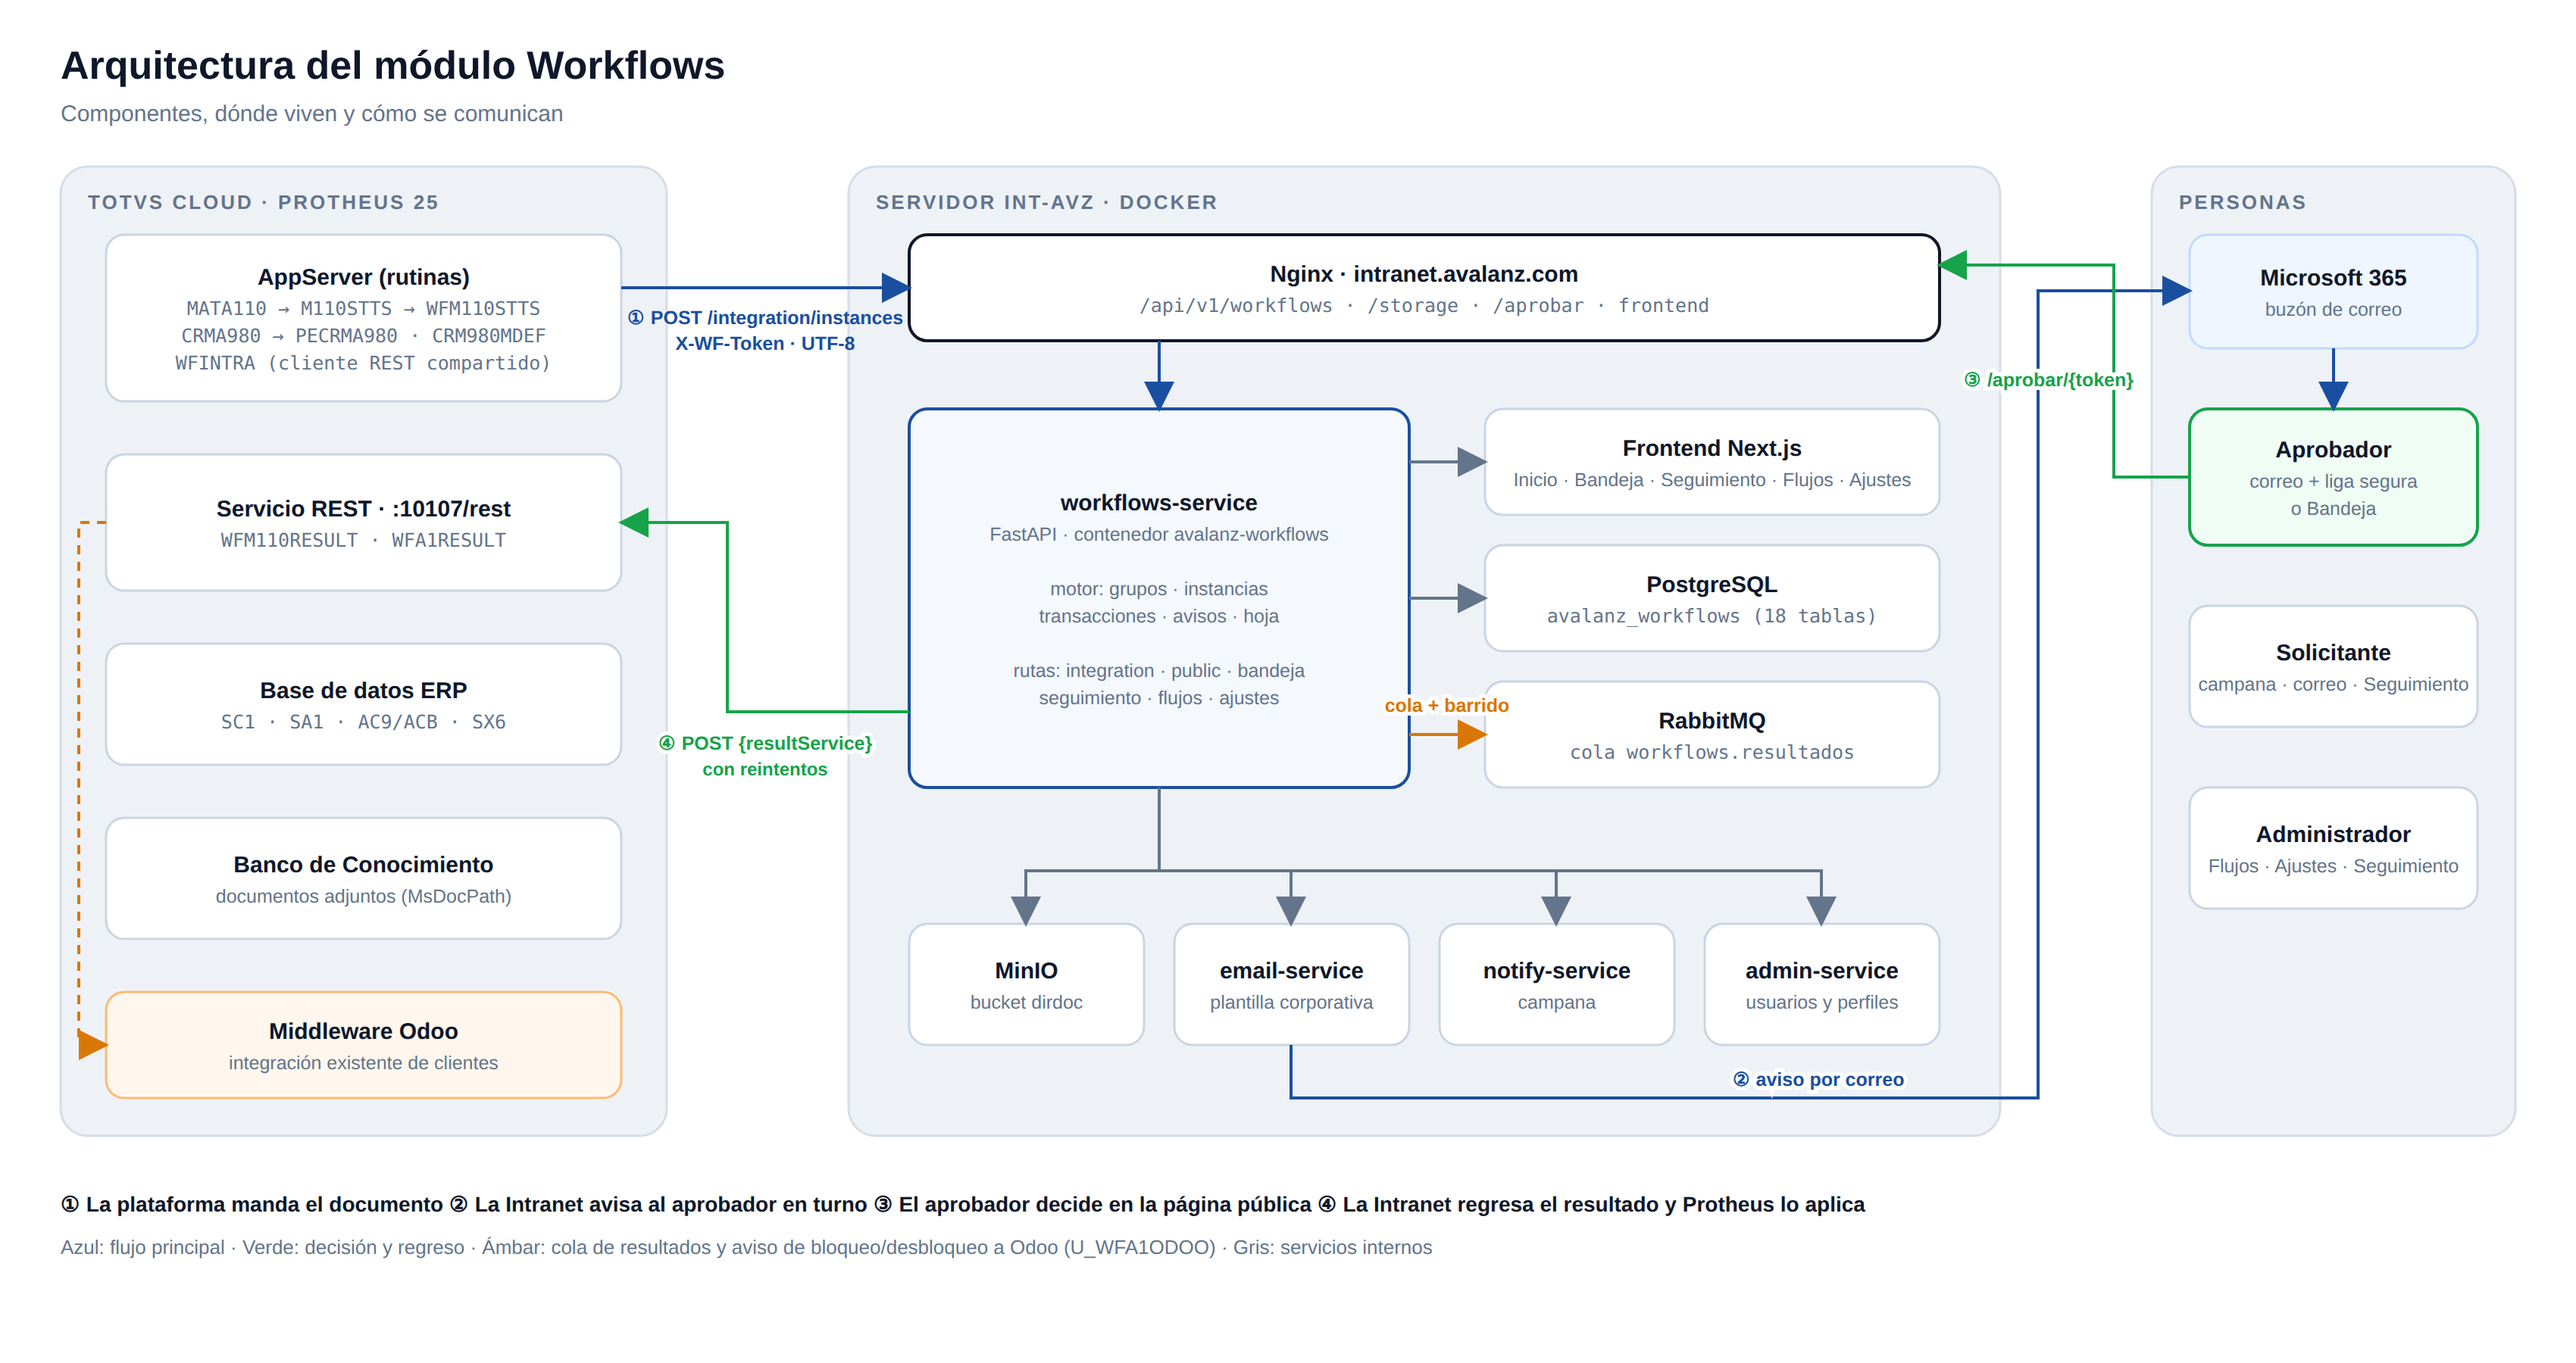
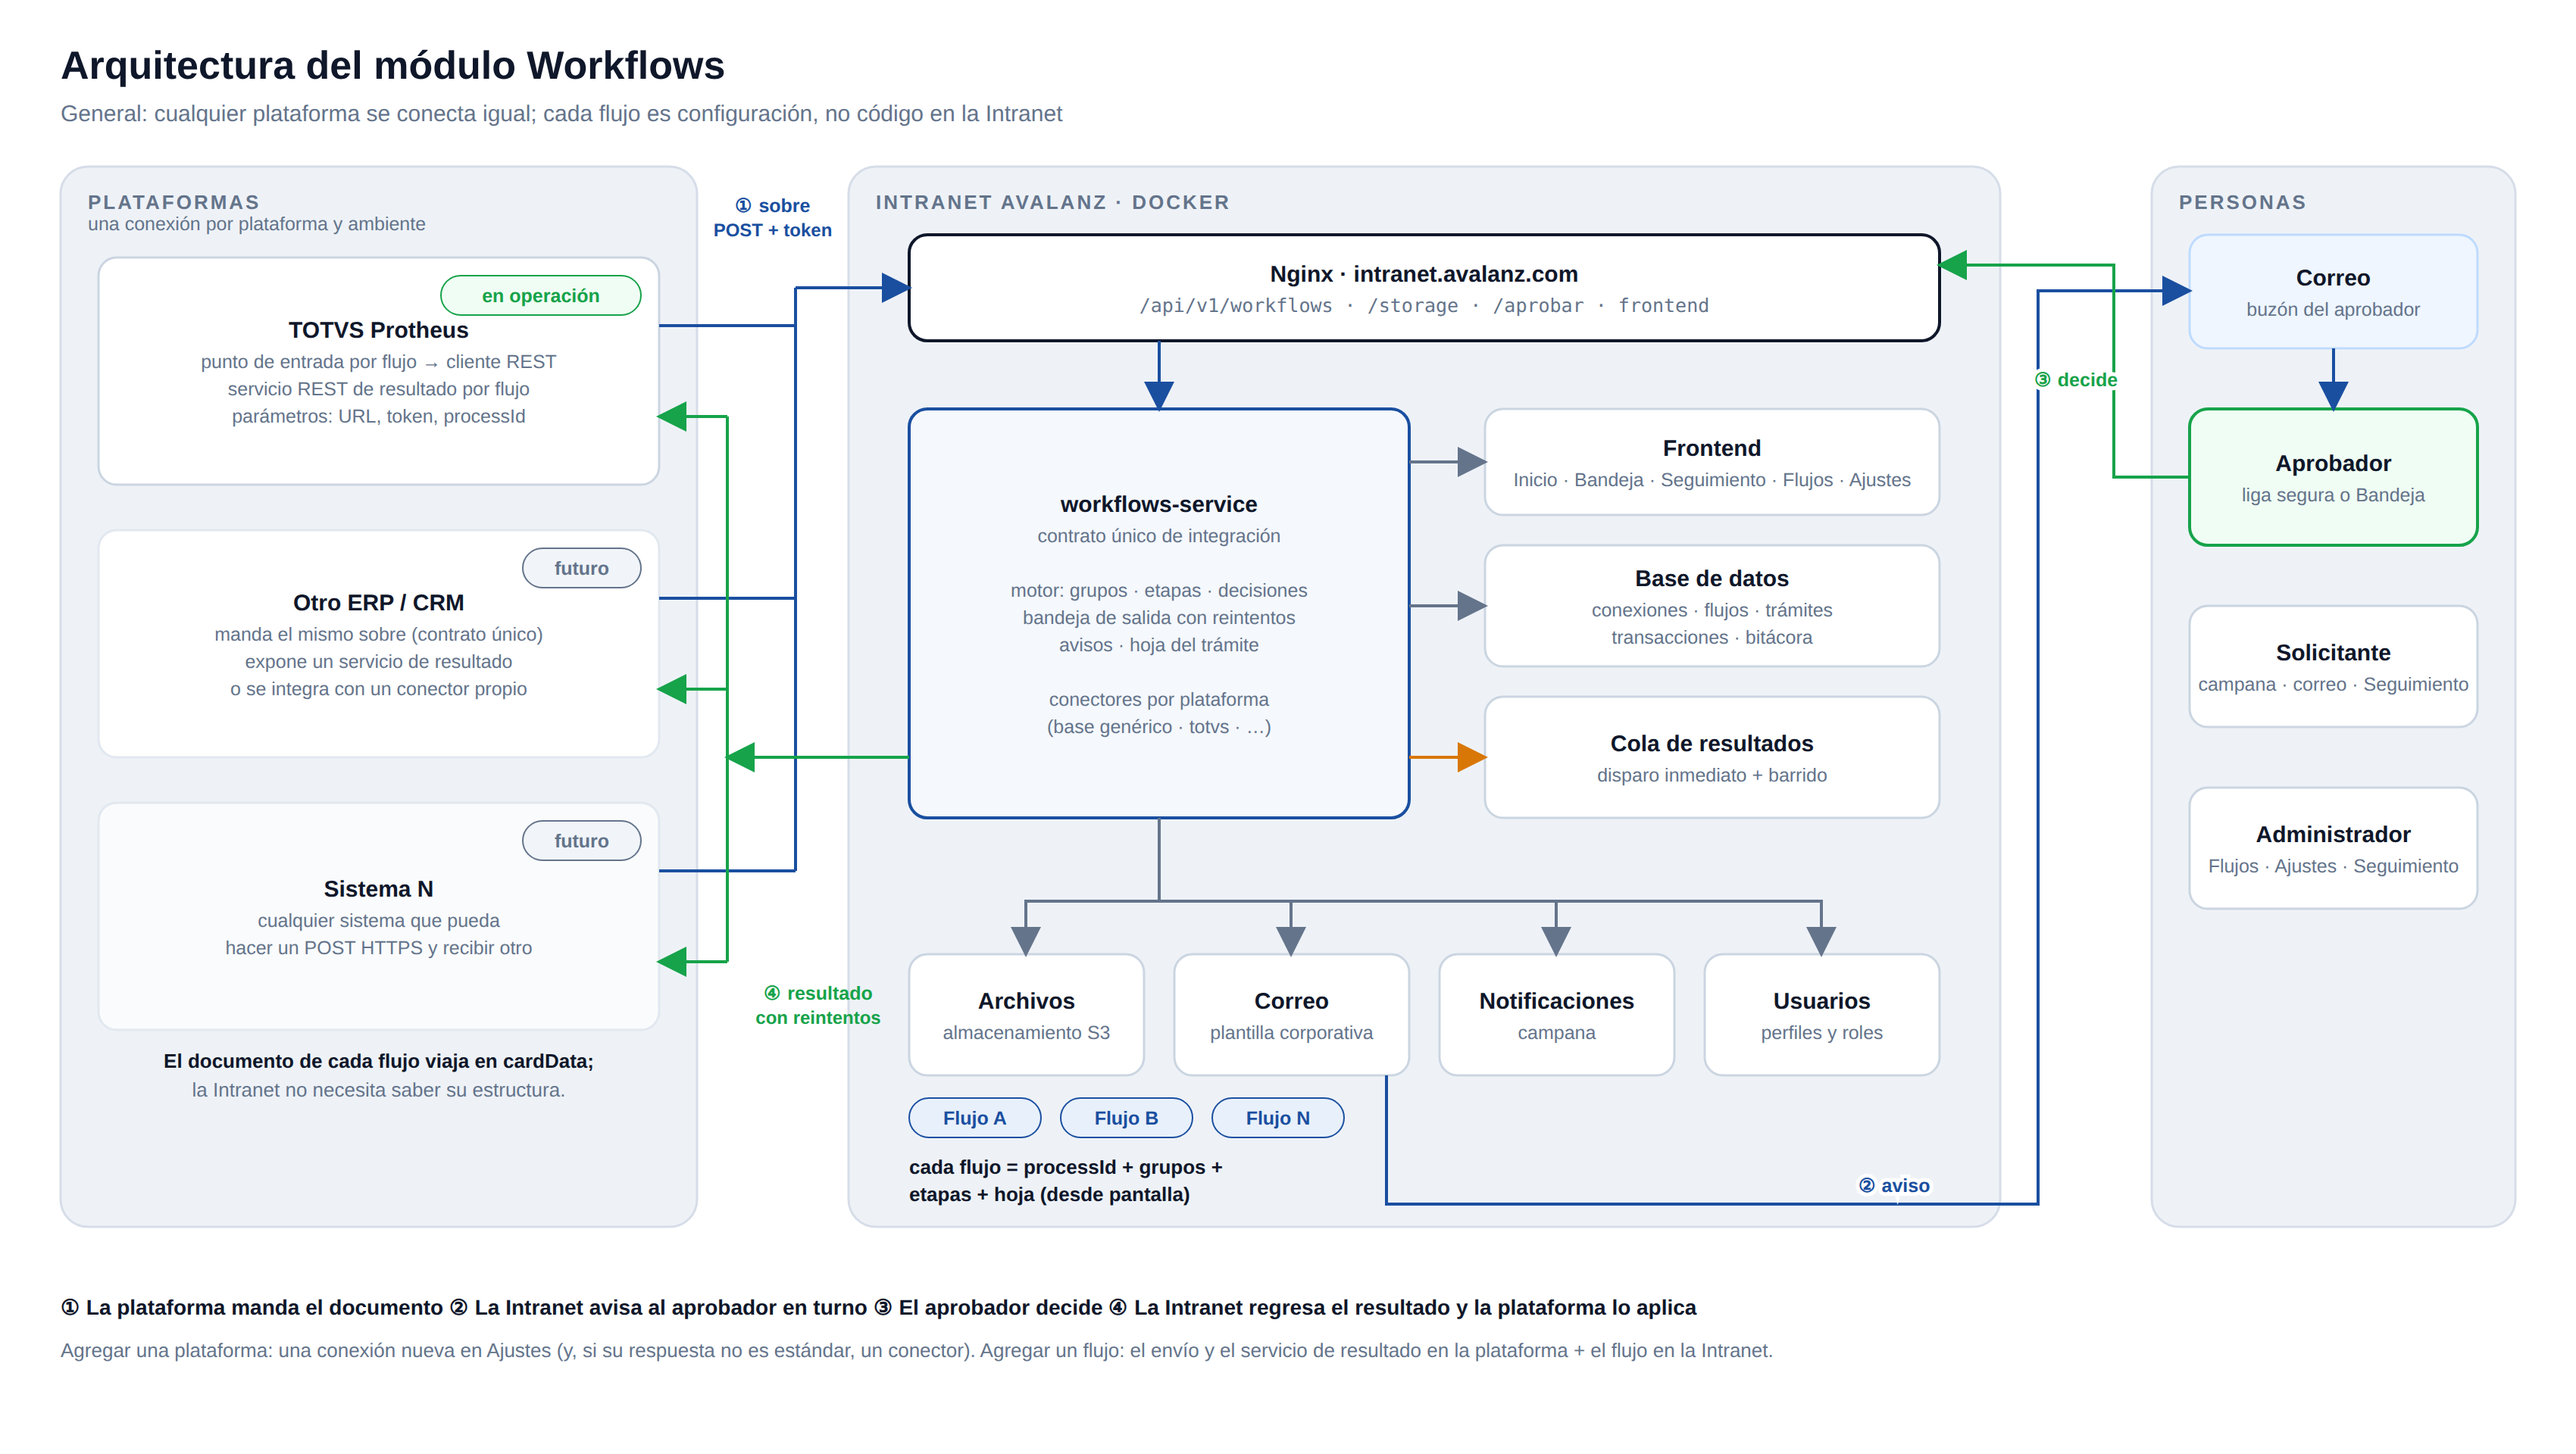
docs(workflows): general context, technical reference and user manuals
Adds the module documentation: general context; technical reference
(architecture, engine, platform integration and Protheus sources,
document sheet and templates, settings and security, development
environment and troubleshooting); and user manuals (connections,
platform users, flows, document sheet, inbox and approval, tracking,
settings, Protheus capture), with architecture, sequence, state, data
model and flow diagrams.

diff --git a/docs/modules/workflows/README.md b/docs/modules/workflows/README.md
@@ -45,11 +45,12 @@ Estado: en desarrollo (rama `feature/workflows-service`). Flujos en operación e
 
 | Imagen | Muestra |
 |---|---|
-| `01-arquitectura.png` | Componentes del módulo y cómo se comunican |
-| `02-recorrido.png` | Recorrido de un trámite paso a paso |
+| `01-arquitectura.png` | Arquitectura general: plataformas, Intranet y personas |
+| `01b-ejemplo-totvs.png` | Ejemplo: la misma arquitectura con TOTVS Protheus y sus fuentes |
+| `02-recorrido.png` | Recorrido de un trámite paso a paso (general, con el ejemplo de Protheus) |
 | `03-estados.png` | Estados del trámite, de sus etapas y de la afectación |
 | `04-grupos-y-etapas.png` | Cómo se elige el grupo y qué etapas aplican |
 | `05-bandeja-de-salida.png` | Regreso del resultado y reintentos |
 | `06-modelo-de-datos.png` | Las 18 tablas y sus relaciones |
 | `07-hoja-del-tramite.png` | De la configuración de la hoja a la pantalla y al correo |
-| `08-alta-de-cliente-odoo.png` | Alta de cliente con la integración de Odoo |
+| `08-alta-de-cliente-odoo.png` | Ejemplo de un flujo concreto: alta de cliente con la integración de Odoo |

diff --git a/docs/modules/workflows/tecnico/01-arquitectura.md b/docs/modules/workflows/tecnico/01-arquitectura.md
@@ -4,6 +4,10 @@
 
 ![Arquitectura del módulo](../img/arquitectura/01-arquitectura.png)
 
+El módulo es independiente de la plataforma: cualquier sistema que mande el sobre del contrato y exponga un servicio de resultado se conecta igual, con su propia conexión en Ajustes. Hoy la única en operación es TOTVS Protheus:
+
+![Ejemplo: Workflows con TOTVS Protheus](../img/arquitectura/01b-ejemplo-totvs.png)
+
 | Pieza | Dónde | Notas |
 |---|---|---|
 | `workflows-service` | `backend/modules/workflows-service/` · contenedor `avalanz-workflows` | FastAPI + SQLAlchemy 2 (async) + Alembic; Python 3.11 |

diff --git a/docs/modules/workflows/tecnico/03-integracion-plataformas.md b/docs/modules/workflows/tecnico/03-integracion-plataformas.md
@@ -58,7 +58,9 @@ Consultas opcionales para la plataforma: `GET /integration/instances/{instanceId
 
 Respuesta esperada (TOTVS): `200 { "actualizado": true, "mensaje": "..." }`. `actualizado: false` o un 4xx se tratan como definitivos; 5xx y tiempo agotado se reintentan.
 
-## Protheus
+## Protheus (plataforma actual)
+
+![Ejemplo: Workflows con TOTVS Protheus](../img/arquitectura/01b-ejemplo-totvs.png)
 
 ### Fuentes
 
